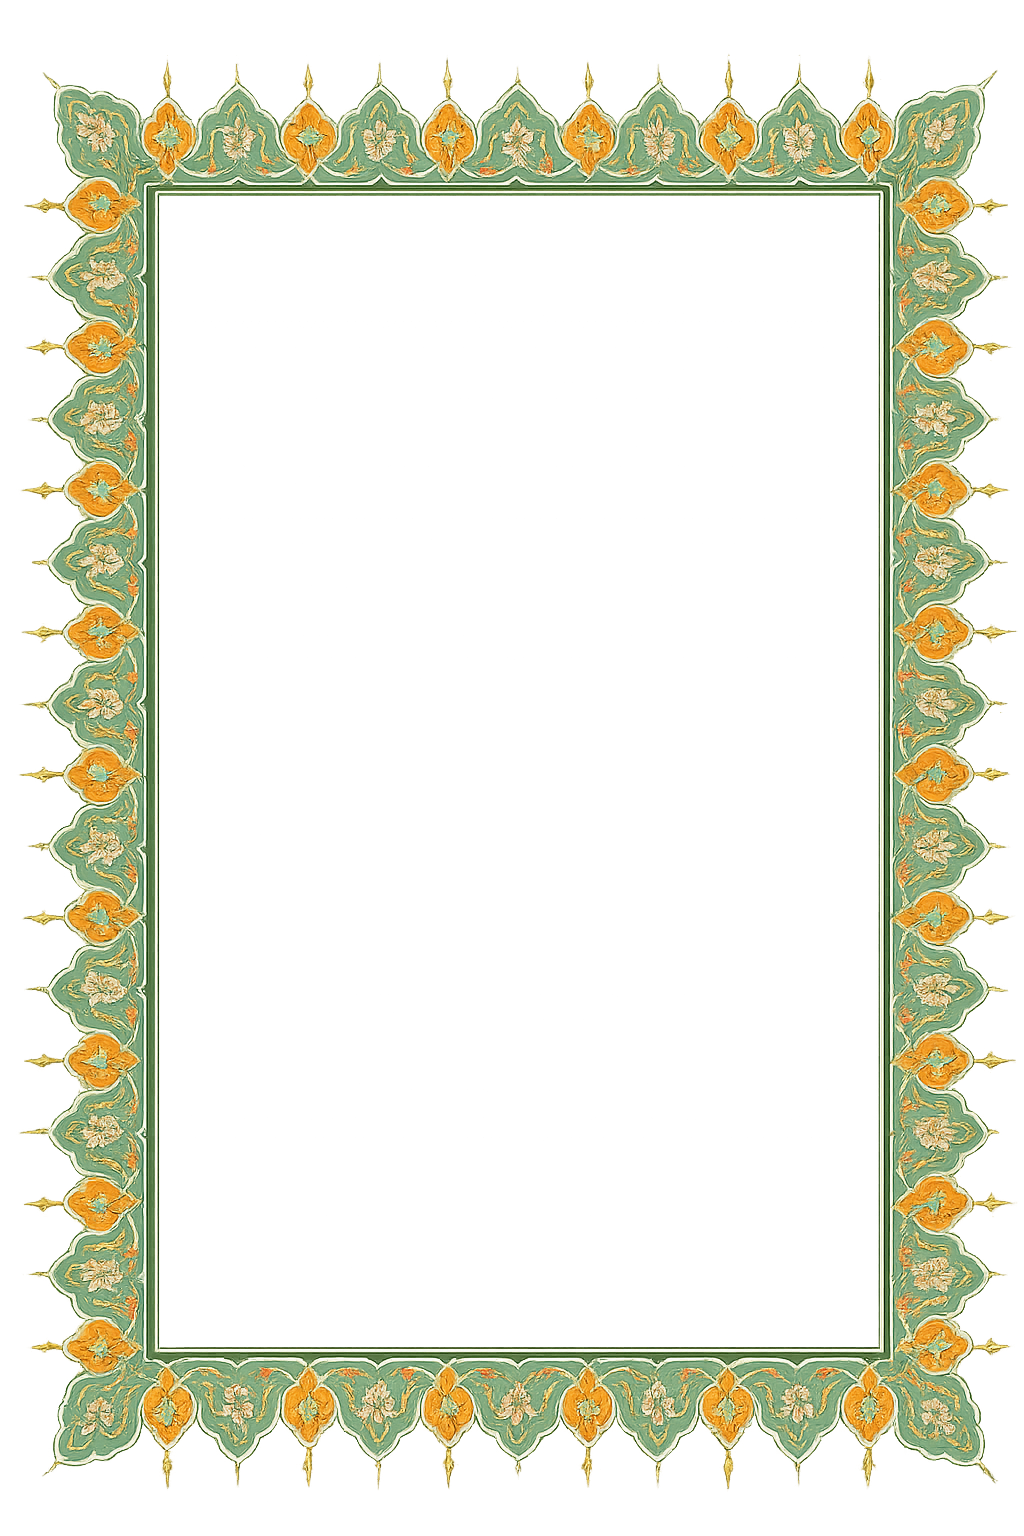
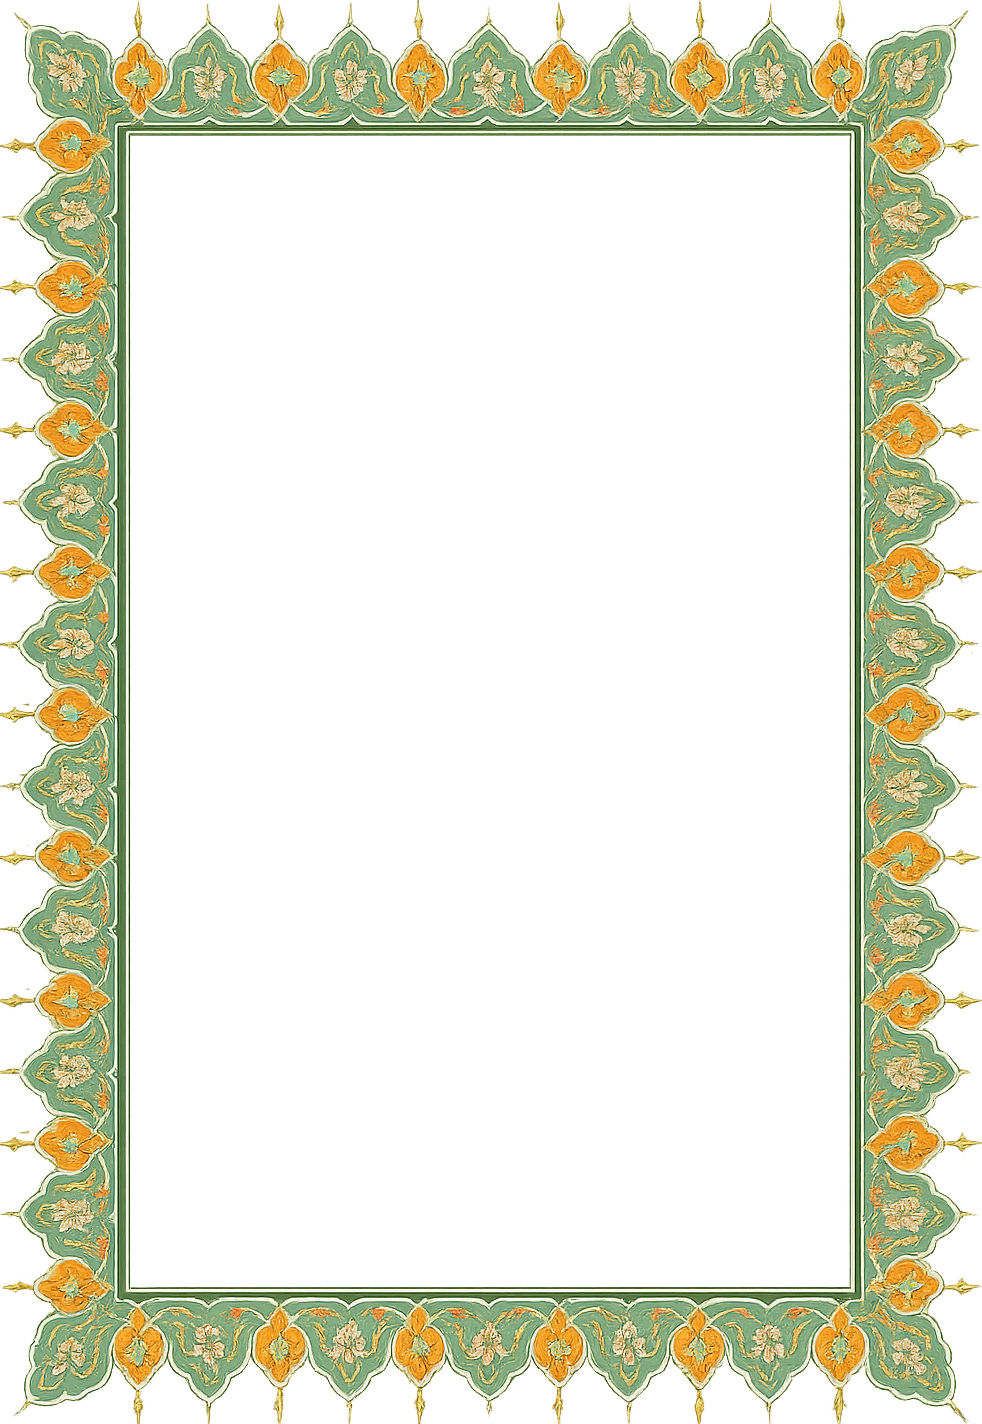
chore: bump version to 0.3.9 and update assets

diff --git a/app/quran.tsx b/app/quran.tsx
@@ -48,16 +48,12 @@ interface QuranSurah {
 const quran = quranImport as QuranSurah[];
 const HIGHLIGHT_END_THRESHOLD_MS = 1750;
 
-// Frame border measurements (measured from the image)
-// These are the ornate decorated borders that content should NOT overlap
-const FRAME_BORDER_TOP = 92; // Top ornate border height
-const FRAME_BORDER_BOTTOM = 88; // Bottom ornate border height
-const FRAME_BORDER_HORIZONTAL = 38; // Left/right ornate border width
-const HEADER_HEIGHT = 95; // Header height when visible (including safe area)
-const MINI_PLAYER_HEIGHT = 90; // MiniPlayer component height
+const FRAME_BORDER_TOP = 92;
+const FRAME_BORDER_BOTTOM = 88;
+const FRAME_BORDER_HORIZONTAL = 38;
+const HEADER_HEIGHT = 95;
+const MINI_PLAYER_HEIGHT = 90;
 
-// SVG path for back arrow (extracted to avoid long lines)
-// eslint-disable-next-line max-len
 const BACK_ARROW_PATH =
   'M7.75 17.75L4.6648 14.7796C2.20442 12.4107 0.974227 11.2263 0.784807 9.78267C0.738398 9.42896 0.738398 9.07104 0.784807 8.71733C0.974227 7.27371 2.20442 6.08928 4.6648 3.72042L7.75 0.75';
 

diff --git a/app/settings.tsx b/app/settings.tsx
@@ -341,7 +341,7 @@ export default function Settings() {
             <Ionicons name="information-circle" size={24} color="#065F46" />
             <View style={styles.infoTextContainer}>
               <Text style={styles.infoTitle}>تطبيق القرآن الكريم</Text>
-              <Text style={styles.infoVersion}>الإصدار 0.3.8</Text>
+              <Text style={styles.infoVersion}>الإصدار 0.3.9</Text>
             </View>
           </View>
         </ScrollView>
